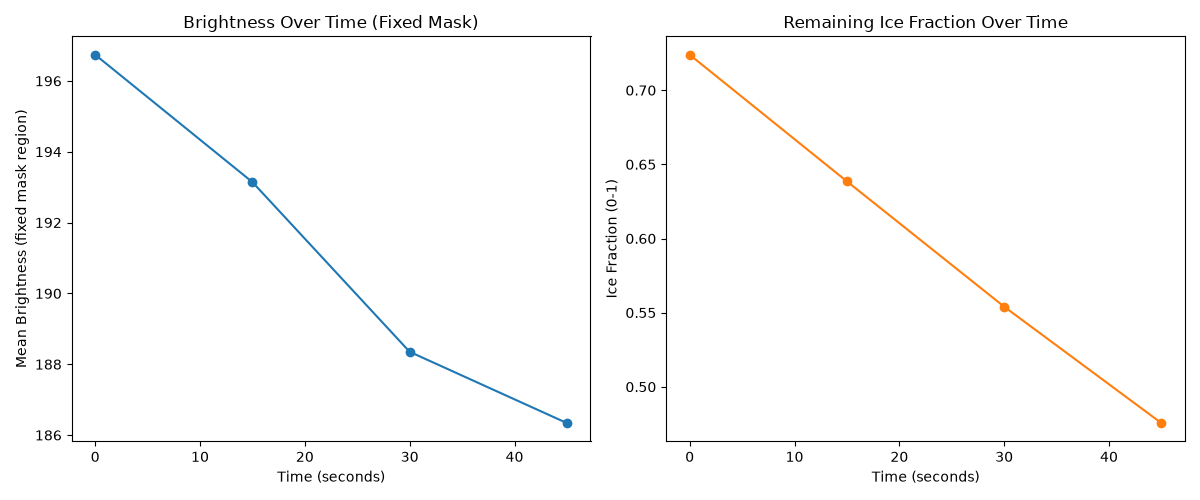
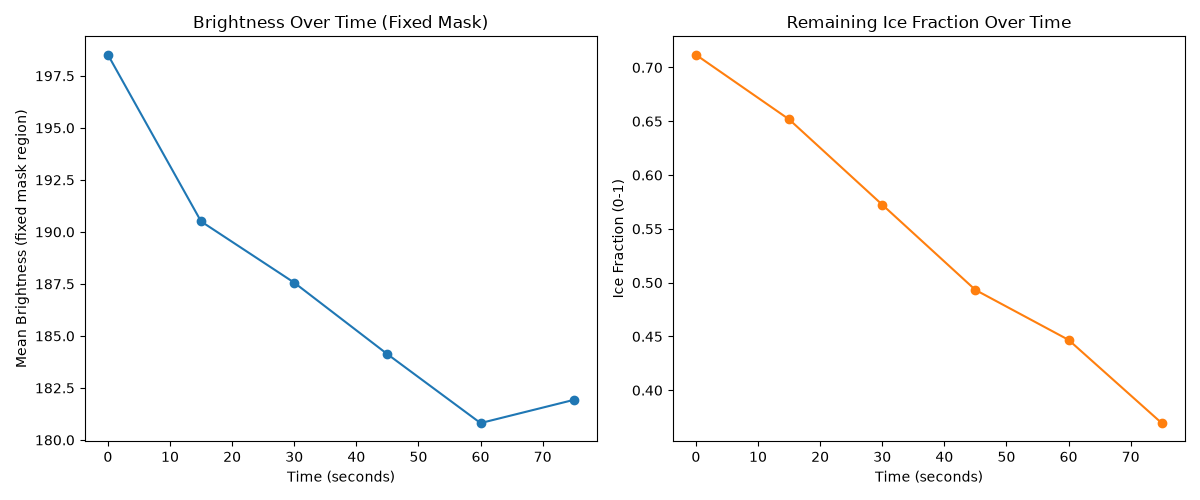
Checked what the code is actually analyzing from image

diff --git a/src/load_images.py b/src/load_images.py
@@ -152,6 +152,9 @@ def analyze_frame(gray_img, color_img, box, fixed_mask, filename):
     still_ice = cv2.bitwise_and(current_threshold, fixed_mask)
     ice_fraction = still_ice[still_ice == 255].size / fixed_mask[fixed_mask == 255].size
 
+    # --- NEW: save the actual per-pixel classification so you can see what's counted as "ice" ---
+    cv2.imwrite(f"output/still_ice_{filename}", still_ice)
+
     # --- NEW: RGB mean within the same fixed mask ---
     masked_color_pixels = color_patch[fixed_mask == 255]  # BGR order (OpenCV default)
     mean_bgr = masked_color_pixels.mean(axis=0)
@@ -189,7 +192,7 @@ if __name__ == "__main__":
         brightness = get_brightness(gray_img, rim_petri_dish)
         print(f"  {filename}: rim brightness = {brightness:.2f}")
 
-    ice_roi = (435 - 50, 1001 - 50, 906 + 50, 1382 + 50)
+    ice_roi = (435-100, 1001-100, 906+100, 1382+100)
     time_interval = 15
     times = [i * time_interval for i in range(len(gray_images))]
 
